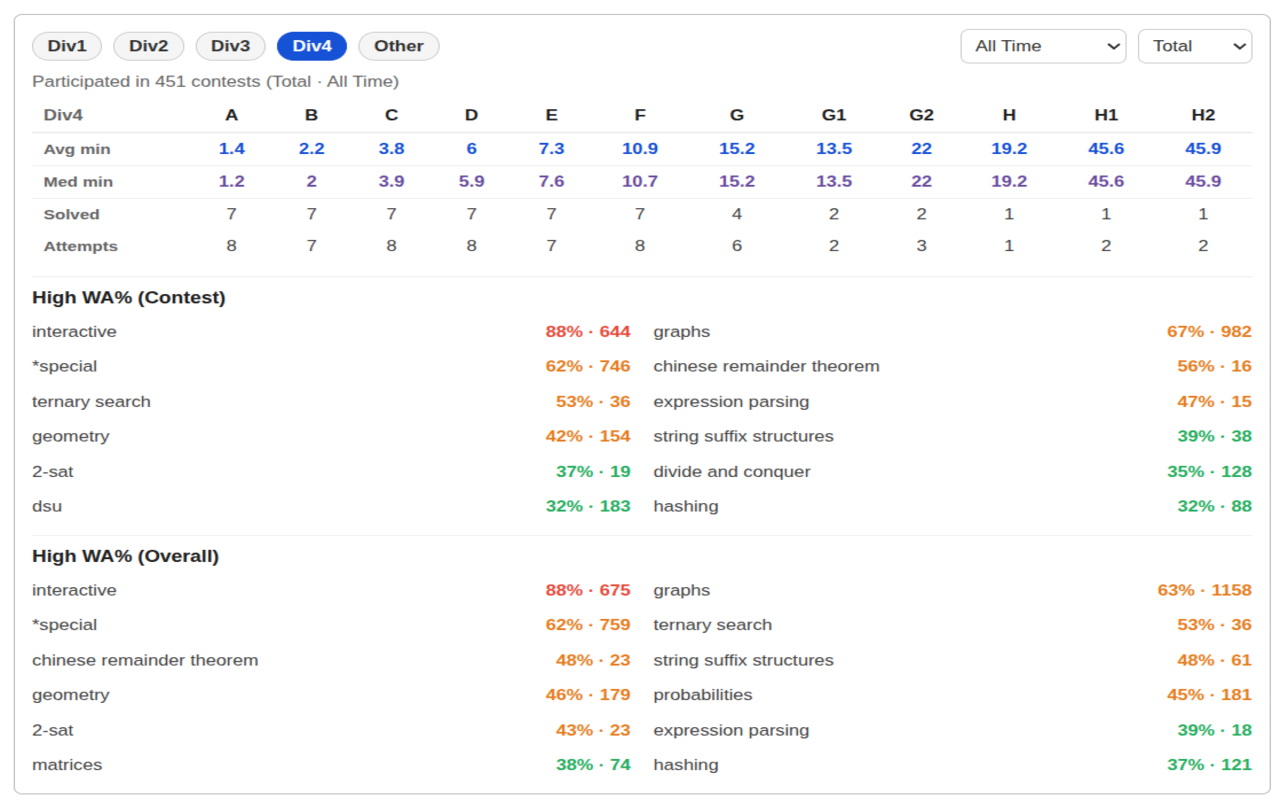
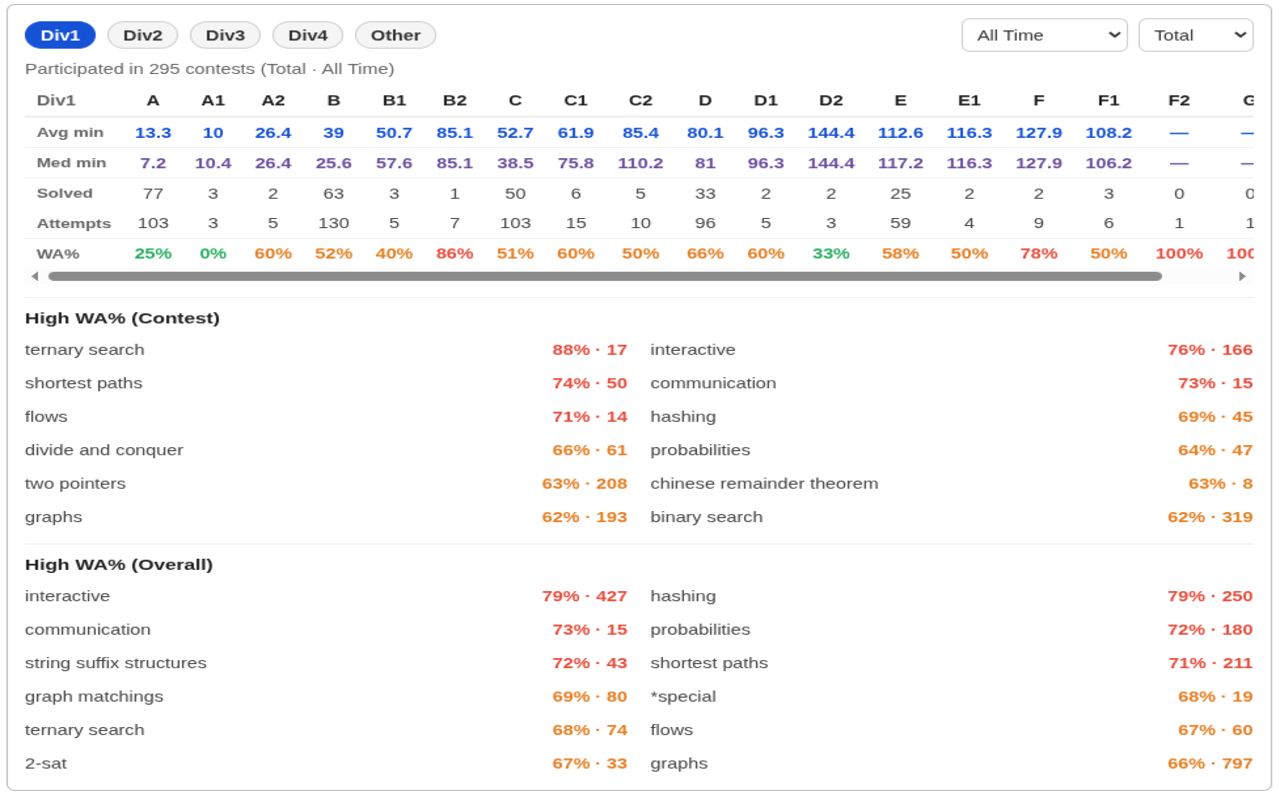
Update screenshots and fix version number in manifest

diff --git a/README.md b/README.md
@@ -40,9 +40,9 @@ Compact contest analytics for Codeforces profiles — average/median solve times
 
 ## Screenshots 🖼
 
-![CF Performance Mirror – Contest type / mode switch](./screenshots/contest_type_highlighted.png)
+![CF Performance Mirror – Contest type / mode switch](./screenshots/highlighted_contest_type%20.png)
 
-![CF Performance Mirror – Timeline selector & WA friction](./screenshots/contest_timeslot_highlighted.png)
+![CF Performance Mirror – Timeline selector & WA friction](./screenshots/highlighted_time_slot%20.png)
 
 ## Motivation / Philosophy
 - Built for competitive programmers who want a private, quick snapshot of where they struggle and how long they take on problems.
